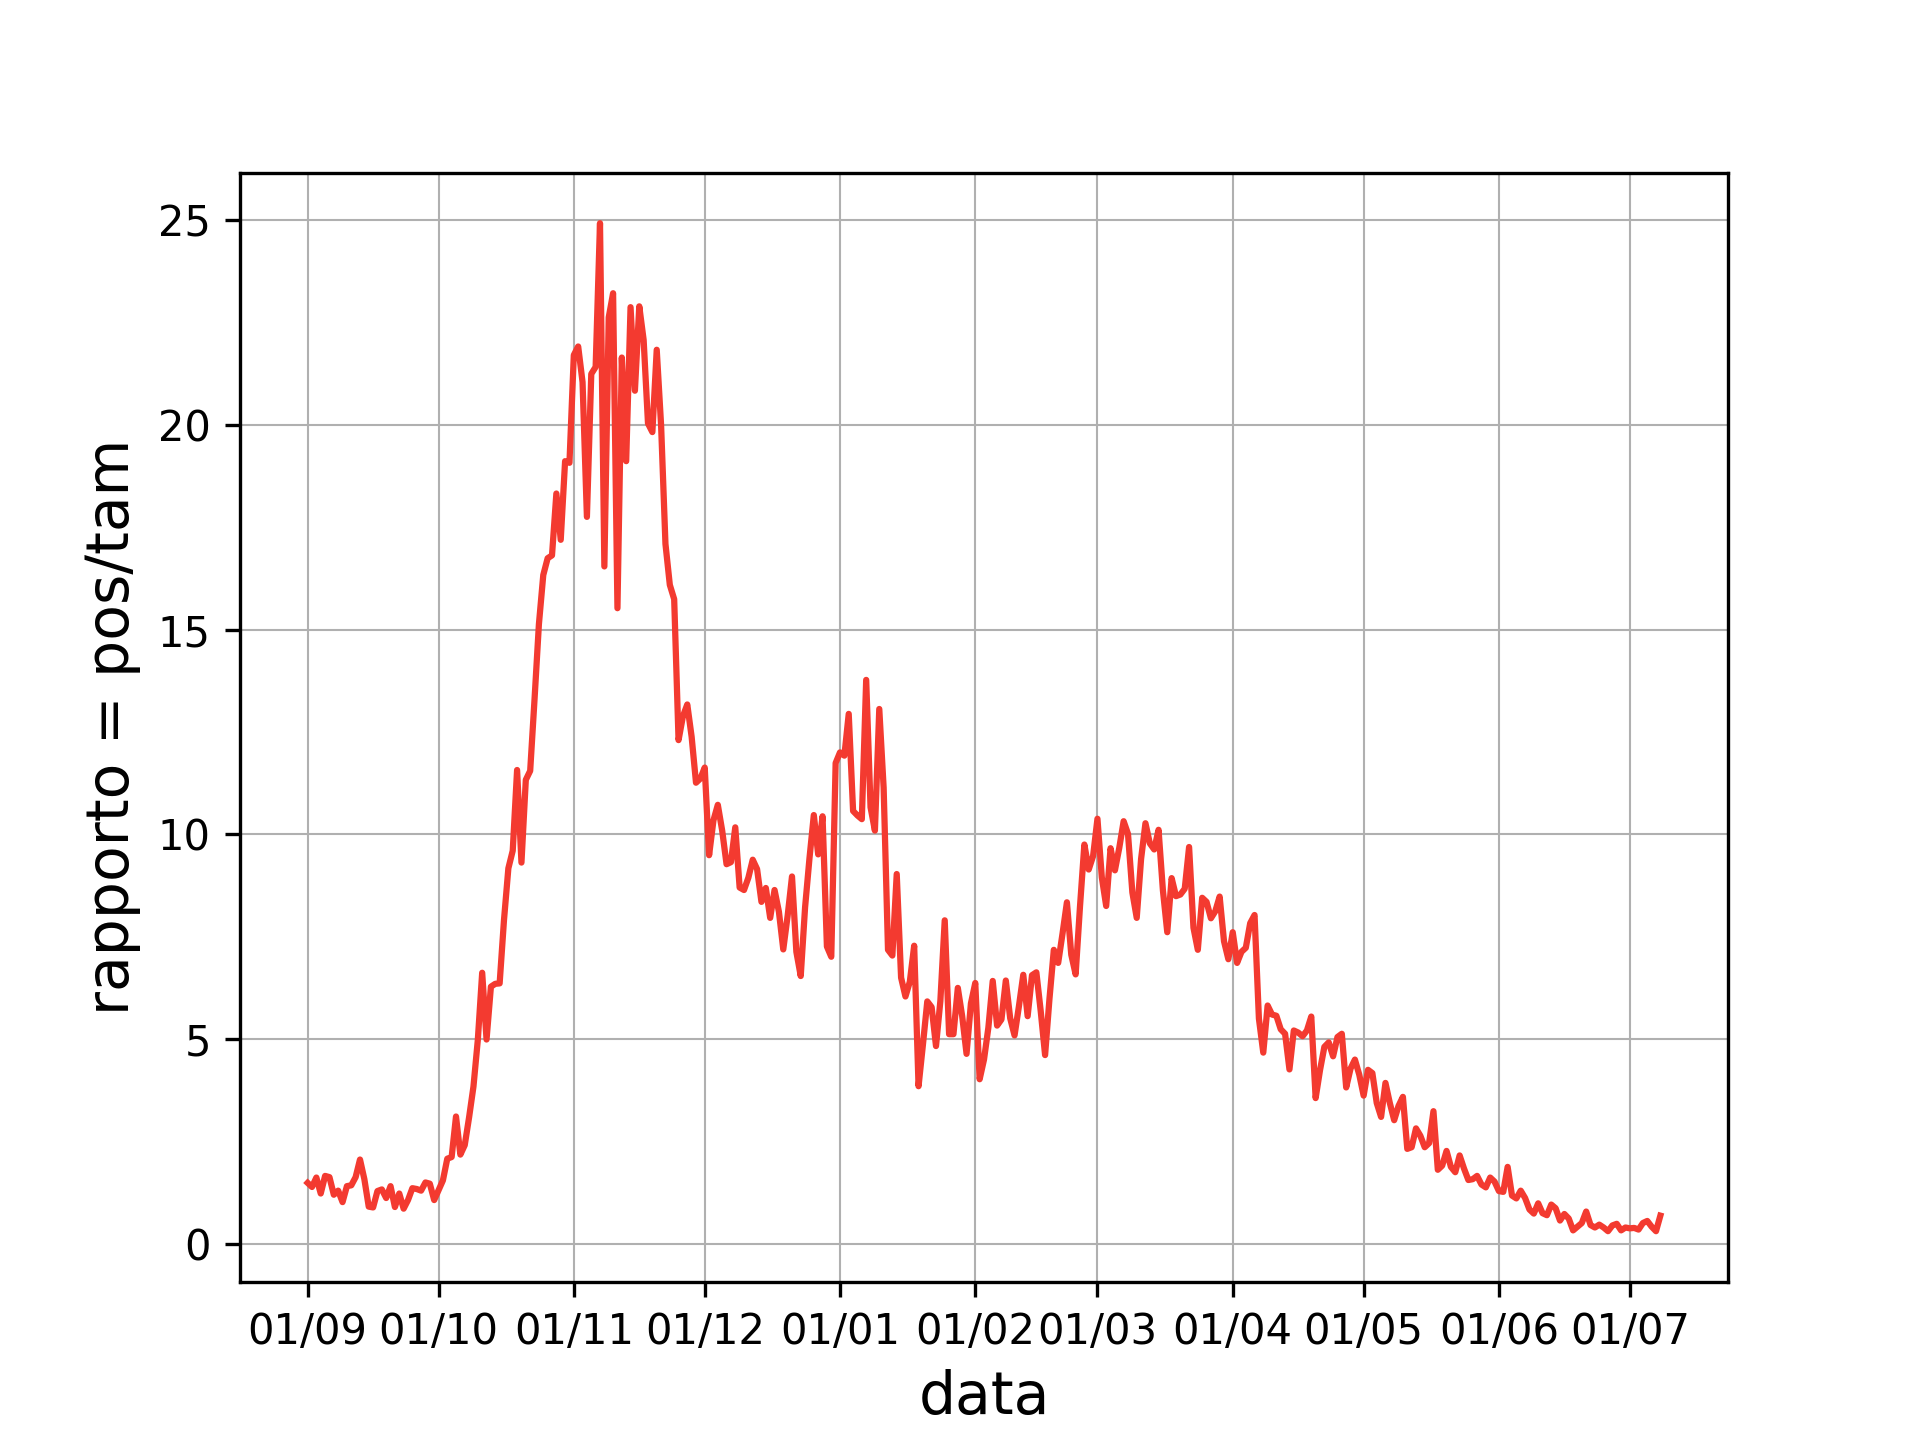
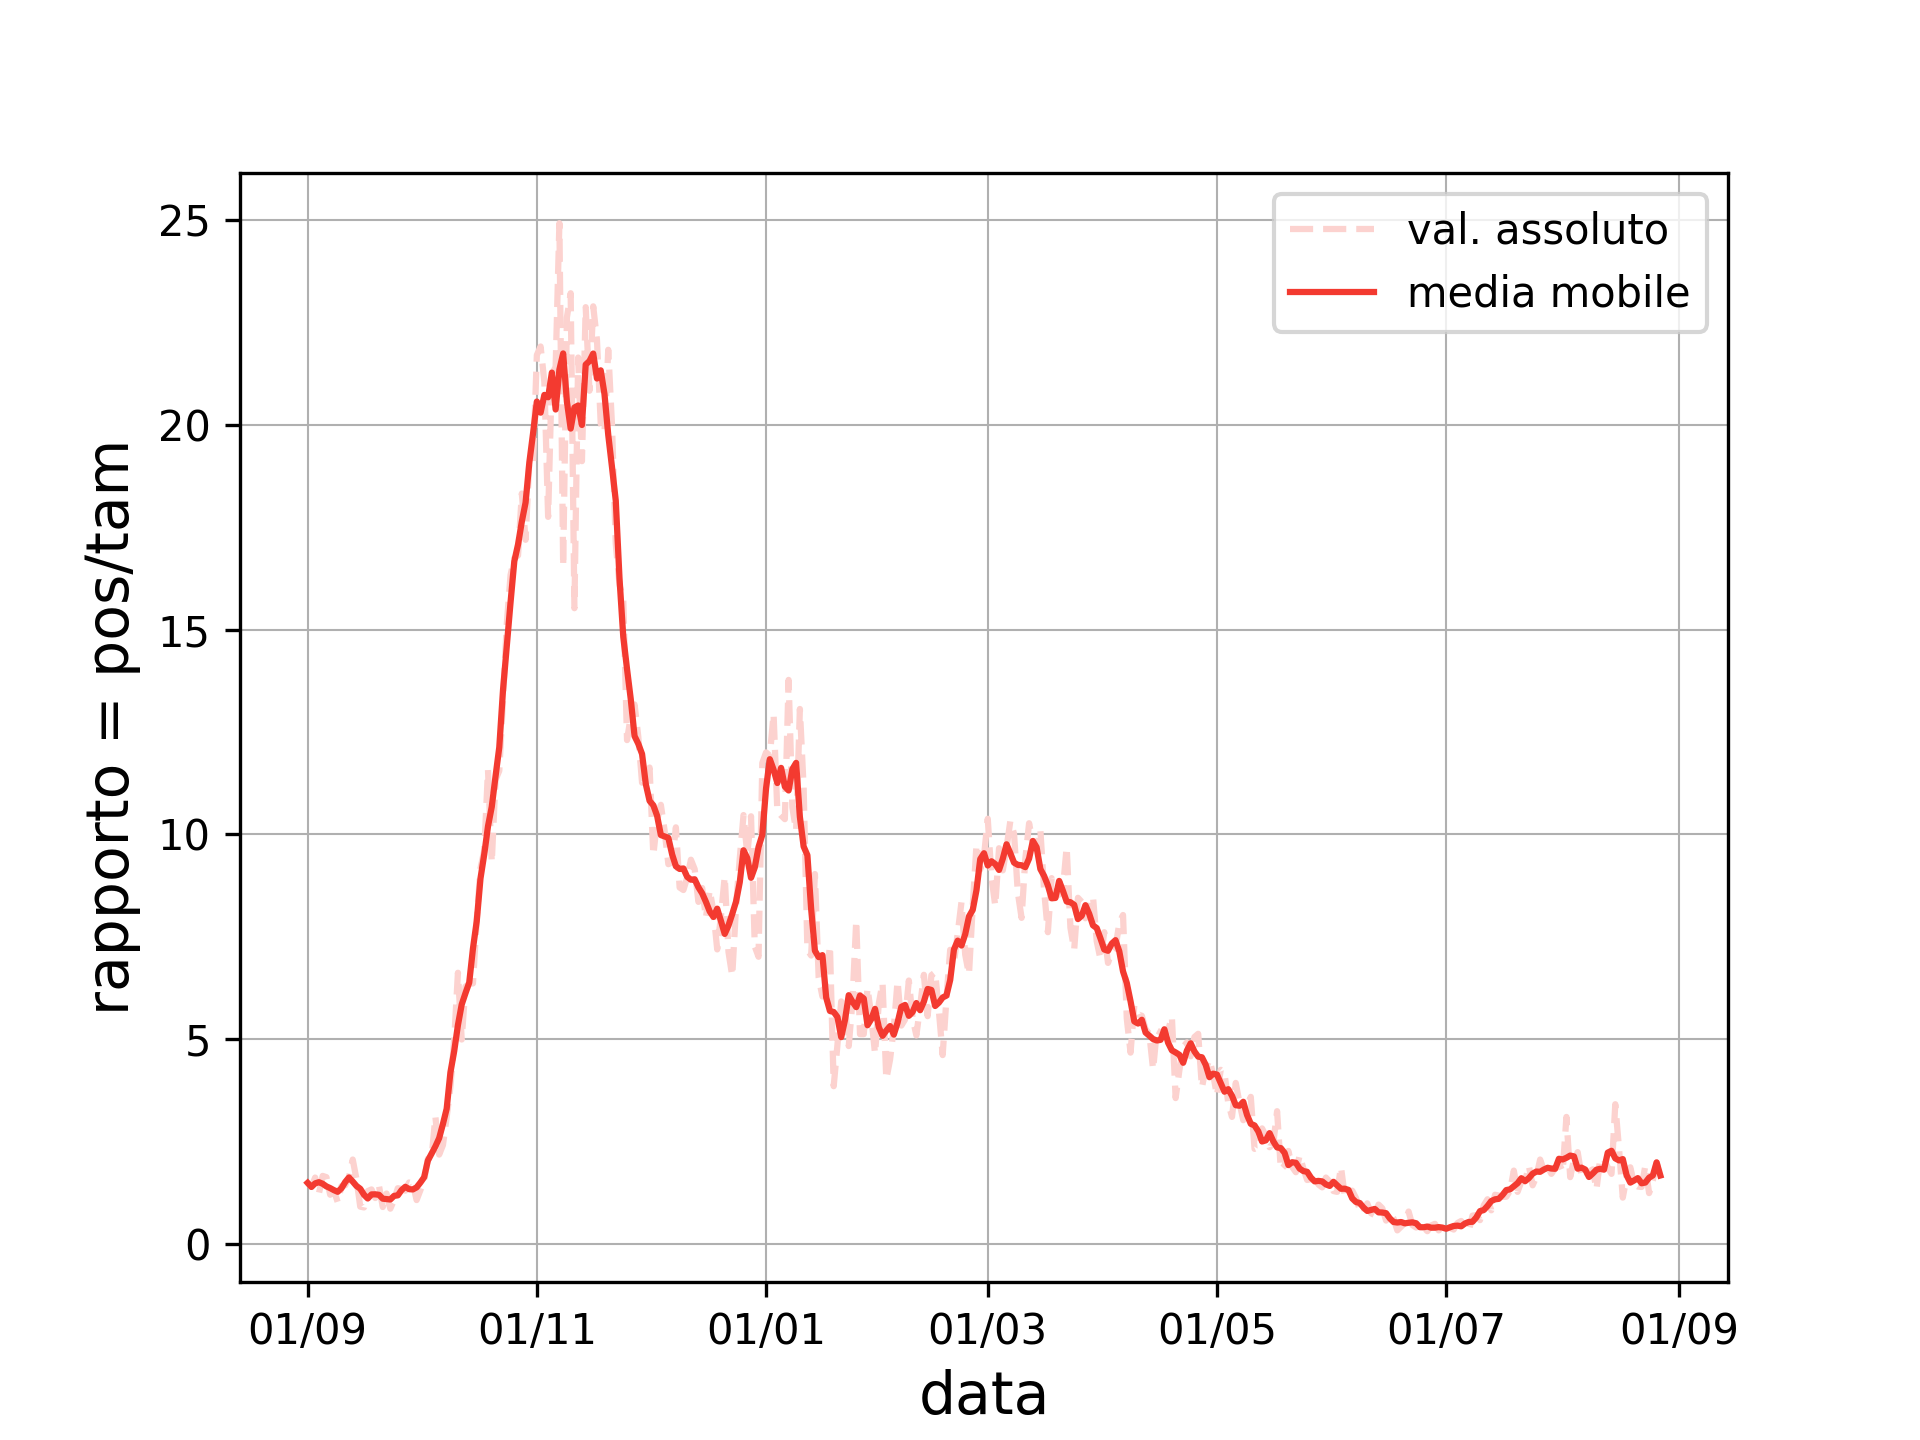
aggiornamento 29/08/2021

diff --git a/frontend/spiegazione.html b/frontend/spiegazione.html
@@ -44,7 +44,7 @@
     <h5>Innanzitutto: il coronavirus &egrave un problema locale. Ci&ograve vuol dire che ognuno di noi si deve preoccupare solo del benessere delle persone che gli vivono vicino; in altri termini: un contagio in Veneto per i liguri non costituisce alcun problema (e anzi: confonde i dati). Questo &egrave il motivo per cui ho deciso di analizzare solo i dati della regione in cui vivo: la Lombardia.</h5>
   </div>
   <div class="w3-container">
-    <h5>Il primo numero che si legge nella home &egrave secondo me il migliore indicatore di andamento che possediamo ora. Si tratta del <b>rapporto tra positivi trovati e tamponi eseguiti</b> misurato giorno per giorno, il che ci dice quanto l'epidemia &egrave diffusa sul territorio. Ne ho parlato approfonditamente <a href="https://medium.com/@virtualmartire/sta-andando-tutto-bene-1d45e896cfce" target="_blank">qui</a> (quando stava andando ancora tutto bene). Il numero dei positivi accertati oggi in valore assoluto (cio&egrave non raffrontato al numero di tamponi eseguiti) &egrave un dato completamente privo di significato e che pertanto non ho voluto riportare.</h5>
+    <h5>Il primo numero che si legge nella home rimane secondo me tra i migliori indicatori di andamento che possediamo. Si tratta del <b>rapporto tra positivi trovati e tamponi eseguiti</b> misurato giorno per giorno, il che ci dice quanto l'epidemia &egrave diffusa sul territorio. Ne ho parlato approfonditamente <a href="https://medium.com/@virtualmartire/sta-andando-tutto-bene-1d45e896cfce" target="_blank">qui</a> (quando stava andando ancora tutto bene). Nel rispettivo grafico sono riportati sia il dato misurato che una media mobile fatta su 5 giorni (per diminuire le oscillazioni statistiche). Il numero dei positivi accertati oggi in valore assoluto (cio&egrave non raffrontato al numero di tamponi eseguiti) &egrave un dato completamente privo di significato e che pertanto non ho voluto riportare.</h5>
   </div>
   <div class="w3-container">
     <h5>Altri due valori importanti e che si leggono sempre in home sono quello delle <b>persone attualmente ospedalizzate</b> e quello delle <b>terapie intensive attualmente occupate</b>, indicanti il livello di stress a cui &egrave sottoposto il nostro sistema sanitario. Un altro dato simile &egrave ovviamente quello dei <b>deceduti giornalieri</b>. Al riguardo di quest'ultimo, l'istogramma rappresenta i valori assoluti (cio&egrave il numero esatto di deceduti in una determinata data) mentre la curva &egrave una media mobile calcolata su 5 giorni che smussa i picchi e visualizza meglio l'andamento del fenomeno.</h5>

diff --git a/frontend/index.html b/frontend/index.html
@@ -175,11 +175,11 @@
         <img src="pantarei/vaccini_graph.png" style="width:100%">
       </div>
       <div class="w3-half">
-        <h5 style="margin-top:42px; margin-left:15px">Percentuale di persone che hanno ricevuto almeno la prima dose di vaccino:</h5>
+        <h5 style="margin-top:42px; margin-left:15px">Percentuale di persone che hanno ricevuto almeno la prima dose di vaccino su tutta la popolazione lombarda:</h5>
         <div class="w3-grey" style="margin-left:15px;margin-right:15px">
           <div class="w3-container w3-center w3-padding w3-purple" id="primedosi"> &ensp;&ensp;&ensp; </div>
         </div>
-        <h5 style="margin-top:42px; margin-left:15px">Percentuale di persone vaccinate completamente:</h5>
+        <h5 style="margin-top:42px; margin-left:15px">Percentuale di persone vaccinate completamente su tutta la popolazione lombarda:</h5>
         <div class="w3-grey" style="margin-left:15px;margin-right:15px;margin-bottom:42px">
           <div class="w3-container w3-center w3-padding w3-purple" id="secondedosi"> &ensp;&ensp;&ensp; </div>
         </div>
